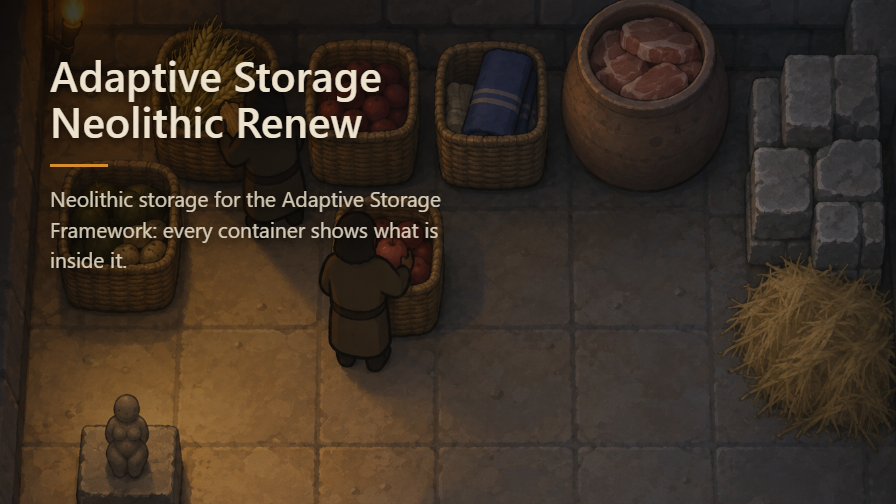
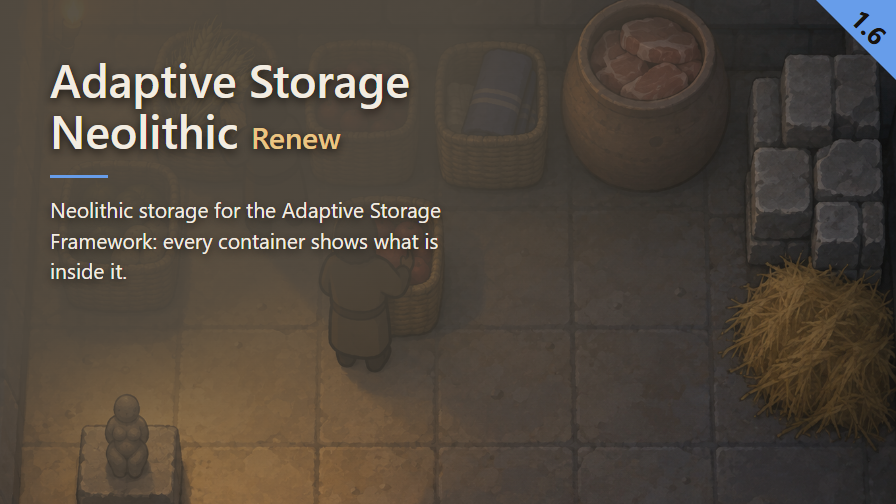
Recompose preview with title hierarchy and contrasting blue accent

diff --git a/Art/preview.html b/Art/preview.html
@@ -1,0 +1,65 @@
+<!doctype html>
+<html lang="en">
+<meta charset="utf-8">
+<title>Adaptive Storage Neolithic Renew — Preview</title>
+<style>
+  * { box-sizing: border-box; }
+  html, body { margin: 0; padding: 0; width: 896px; height: 504px; overflow: hidden; }
+  body { font-family: "Segoe UI", system-ui, sans-serif; }
+  .frame { position: relative; width: 896px; height: 504px;
+    background: url("Preview.png") 0 -43.5px / 896px auto no-repeat; }
+  .veil { position: absolute; inset: 0;
+    background: radial-gradient(ellipse 900px 680px at top left,
+      rgb(var(--veil-rgb) / .96) 0%, rgb(var(--veil-rgb) / .90) 50%,
+      rgb(var(--veil-rgb) / 0) 100%); }
+  .text { position: absolute; left: 50px; top: 54px; color: var(--inkPrimary);
+    text-shadow: 0 3px 10px rgb(0 0 0 / .75); }
+  h1 { margin: 0; font-size: 46px; font-weight: 600; line-height: 1.1; letter-spacing: 0; }
+  h1 > .suffix { font-size: .65em; color: var(--inkSecondary); }
+  .tag { margin: 8px 0 0; font-size: 24px; font-weight: 400; line-height: 1.1;
+    letter-spacing: .2px; color: var(--inkSecondary); }
+  .rule { width: 58px; height: 3px; margin: 20px 0 16px; background: var(--accent); }
+  p { margin: 0; width: 430px; font-size: 21px; font-weight: 400;
+    line-height: 1.45; letter-spacing: 0; color: var(--inkPrimary); }
+  .badge { position: absolute; right: 0; top: 0; width: 80px; height: 80px;
+    background: var(--accent); clip-path: polygon(0 0, 100% 0, 100% 100%); }
+  .version { position: absolute; left: 869px; top: 27px;
+    transform: translate(-50%, -50%) rotate(45deg); color: var(--badgeInk);
+    font-size: 26px; font-weight: 700; line-height: 1; text-shadow: none; }
+  .background-only .text, .background-only .version { visibility: hidden; }
+</style>
+<div class="frame">
+  <div class="veil"></div>
+  <div class="text">
+    <h1>Adaptive Storage<br>Neolithic <span class="suffix">Renew</span></h1>
+    <div class="rule"></div>
+    <p>Neolithic storage for the Adaptive Storage Framework: every container shows what is inside it.</p>
+  </div>
+  <div class="badge"></div><div class="version"></div>
+</div>
+<script>
+window.previewReady = (async () => {
+  const palette = await (await fetch('preview-palette.json')).json();
+  for (const [name, hex] of Object.entries(palette)) {
+    document.documentElement.style.setProperty('--' + name, hex);
+  }
+  document.documentElement.style.setProperty('--veil-rgb',
+    palette.veil.match(/[0-9a-f]{2}/gi).map(v => parseInt(v, 16)).join(' '));
+  const about = new DOMParser().parseFromString(
+    await (await fetch('../Mod/About/About.xml')).text(), 'text/xml');
+  const versions = [...about.querySelectorAll('supportedVersions > li')]
+    .map(n => n.textContent.trim()).filter(v => /^\d+\.\d+(\.\d+)?$/.test(v));
+  versions.sort((a,b) => {
+    const aa = a.split('.').map(Number), bb = b.split('.').map(Number);
+    for (let i=0; i<Math.max(aa.length,bb.length); i++) {
+      const d = (bb[i] || 0) - (aa[i] || 0); if (d) return d;
+    } return 0;
+  });
+  if (!versions.length) throw new Error('No declared stable version');
+  document.querySelector('.version').textContent = versions[0];
+  await document.fonts.ready;
+  await Promise.all([...document.images].map(img => img.decode()));
+  const source = new Image(); source.src = 'Preview.png'; await source.decode();
+})();
+</script>
+</html>

diff --git a/STATUS.md b/STATUS.md
@@ -62,3 +62,39 @@ Three events, and none of them corrects it on its own.
   declared, `none` when the mod needs nothing. An undeclared dependency is not cosmetic: on
   2026-09-11 Reequilibrage animaux took 47 vanilla animals down with it, Muffalo included, because
   the class it injects belongs to a mod that was not declared and not loaded.
+
+## Preview overlay — 2026-09-12
+
+- Delivered image: `Mod/About/Preview.png`, 896 x 504, 608,863 bytes (under 900 KB).
+- Text-free illustration: `Art/Preview.png`, copied unchanged from the preserved
+  `Art/Preview-source.png`. No replacement illustration was generated; the original source
+  remains available under its distinct existing name. The existing crop is retained.
+- Composition and layout parameters: `Art/preview.html`; sole colour reference:
+  `Art/preview-palette.json`; renderer: `Art/render-preview.cjs`.
+- The veil follows the warm stone/packed-earth surfaces, slightly desaturated. The blue
+  accent comes from the folded textile in the storage basket, with saturation and lightness
+  increased. Its cool hue clearly separates it from the dominant warm ochre family and
+  the secondary ink at both output sizes. The secondary ink follows the dominant ochre
+  family of the lit stone, wicker and earth, lightened to pass contrast while retaining
+  its colour. It colours the Renew suffix; no status tag is displayed
+  because this mod is public/open and its name has no unofficial suffix.
+- Existing title and summary preserved, including case and word order. Strong title words
+  and summary use exactly the same primary ink. Renew is a direct title span at 0.65em
+  (29.9 px), secondary ink, still weight 600. Text begins at (50, 54); title 46 px/600,
+  summary 21 px/400; rule 58 x 3 px.
+  The dark veil holds its opacity over the text before fading, to maintain contrast across
+  the illuminated floor. Text shadow follows the guide. Version 1.6 is read from the highest
+  stable supportedVersions entry in the delivered About.xml, not hardcoded.
+- Actual fonts verified through Chrome's platform-font API after `document.fonts.ready`:
+  Segoe UI Semibold for the title and suffix, Segoe UI Regular for the summary, Segoe UI Bold for the
+  version; no fallback. Badge triangle and rotated version use the guide's coordinates.
+- Contrast measured on a separate render with text hidden, over EVERY pixel in each full
+  text rectangle: primary title minimum 6.30:1; Renew suffix 4.87:1; summary 6.07:1;
+  version on opaque badge 6.72:1.
+  Tag contrast is not applicable because there is no tag. Evidence: `Art/preview-qa.json`
+  and `Art/preview-background-qa.png`.
+- Visually checked at 896 x 504 and at 268 px wide (`Art/preview-268.png`): title and version
+  identifiable, reduced Renew suffix readable, blue rule visible and distinct from the ochre
+  suffix, no overlap or clipping. The small summary is intended for
+  the full-size image. No publication performed; this local overlay supersedes the older
+  showcase mentioned as pushed above.

diff --git a/Art/PREVIEW.md b/Art/PREVIEW.md
@@ -1,0 +1,24 @@
+# Rebuilding the Preview
+
+`Preview.png` is the unmodified text-free illustration. `Preview-source.png` preserves the
+same original. `preview.html` composes the source directly at 896 x 504; its only palette
+source is `preview-palette.json`. The version is read from `../Mod/About/About.xml`.
+The Renew suffix is a direct title span at 65% size in secondary ink. The renderer checks
+its font and contrast separately from the primary title and summary.
+
+Use Node.js with `playwright` and `sharp` available, Chrome/Chromium, and the Segoe UI fonts.
+Set `NODE_PATH` if the packages are outside normal resolution paths, and `CHROME_PATH` if
+using an existing browser instead of Playwright's bundled Chromium. From the repository:
+
+```powershell
+node Art/render-preview.cjs
+```
+
+The script serves the repository only on loopback for the duration of rendering, waits for
+fonts and images, verifies the actual font families, and measures contrast against the
+rendered background. It writes `../Mod/About/Preview.png`, `preview-268.png`,
+`preview-background-qa.png` and `preview-qa.json`. Review both final sizes visually after
+any change. A contrast below 4.5:1, fallback font, or PNG over 900,000 bytes fails the build.
+
+The current mod has no status tag. Adding one requires adding its actual text, checking its
+platform font and rendered contrast, and updating the renderer's QA coverage accordingly.
